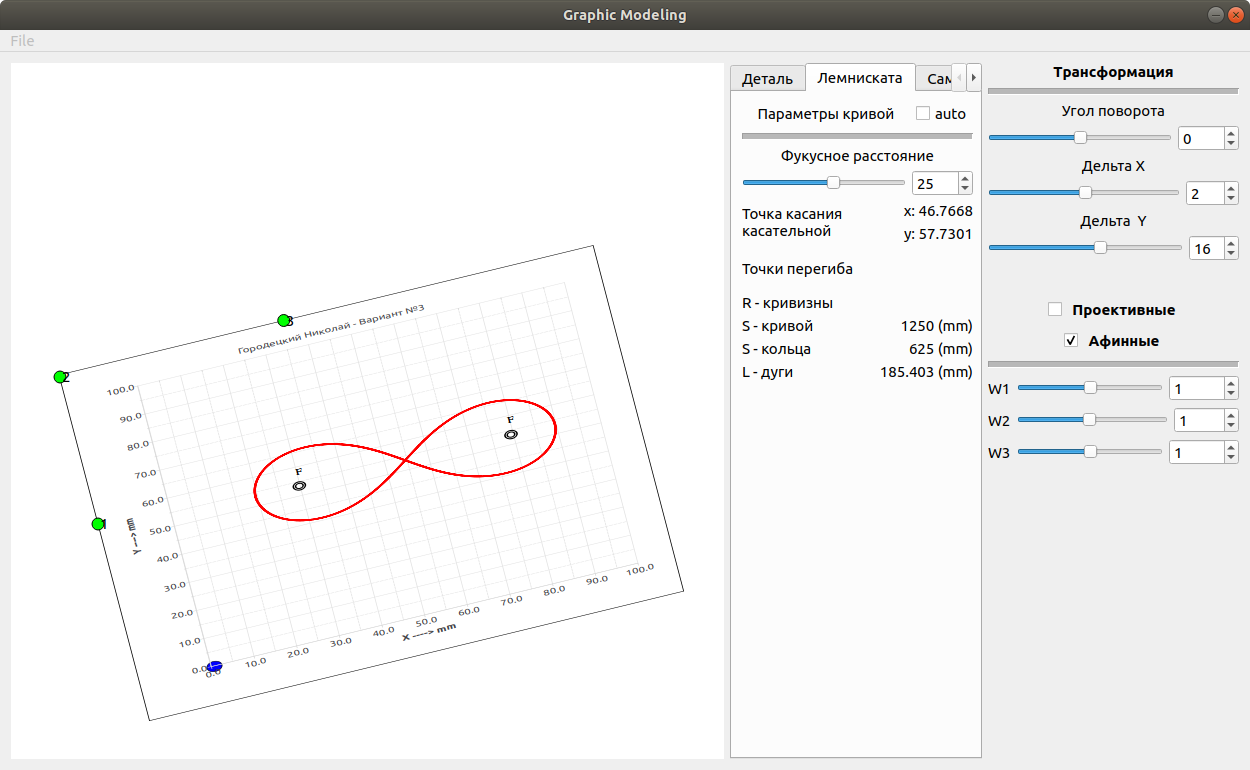
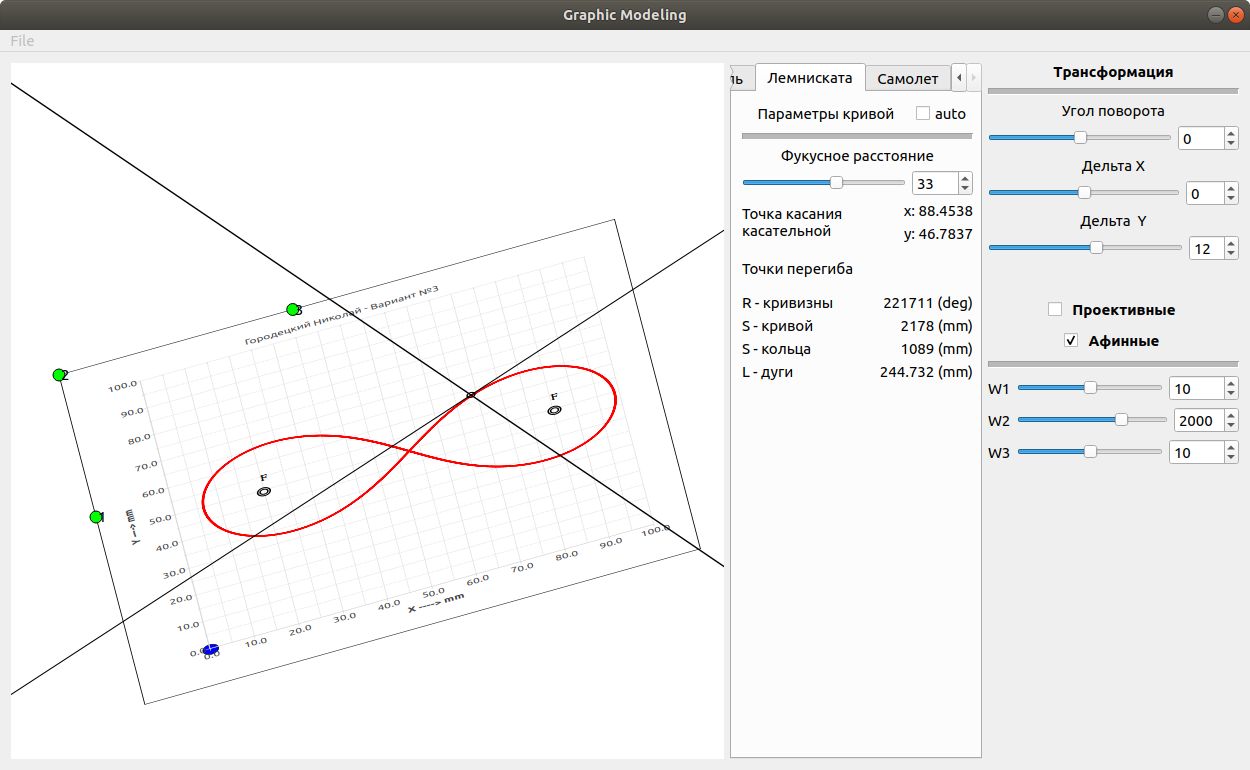
Add screenshots to README

diff --git a/README.md b/README.md
@@ -7,7 +7,7 @@ Working with 2D modeling, using qt
 ### Gasket and Affine transformation
 ![Gasket_Affine](./docs/Gasket_Affine.png)
 
-### Lemniscate of Bernoulli and Affine transformation
+### Lemniscate of Bernoulli, Tangent line and Affine transformation
 ![BernuliLemniscat_Affine](./docs/BernuliLemniscat_Affine.png)
 
 ### Plane, drawed by Quadratic Bézier curve
